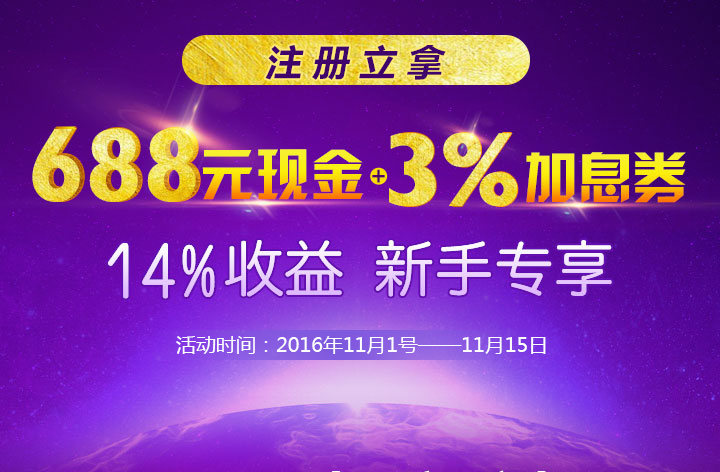
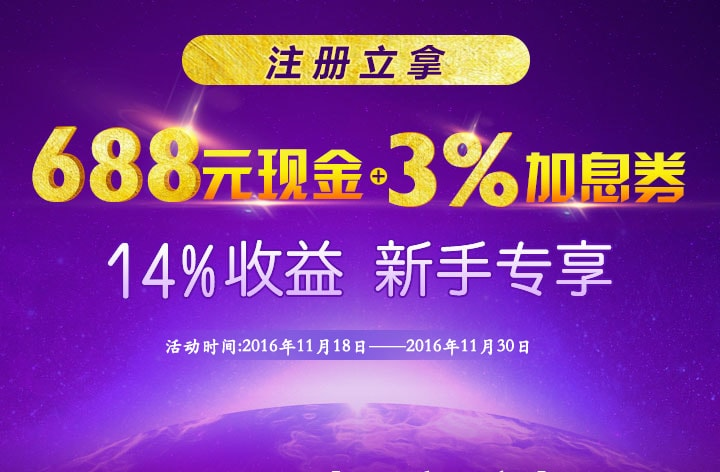
feat(novice－landing.html):新手活动时间修改

diff --git a/app/views/activity/novice-landing.html b/app/views/activity/novice-landing.html
@@ -39,7 +39,7 @@
       </div>
       <div class="describe ft-white">
         <p class="padding-t-0p5">举个栗子：</p>
-        <p>王先生在11月2日注册，使用获赠的加息券投资宏金保30天项目3万元，王先生本次投资将获得271.23元：</p>
+        <p>王先生在11月22日注册，使用获赠的加息券投资宏金保30天项目3万元，王先生本次投资将获得271.23元：</p>
       </div>
       <div class="show-rate margin-t-3 ft-white text-center">
         <div class="new-packet">
